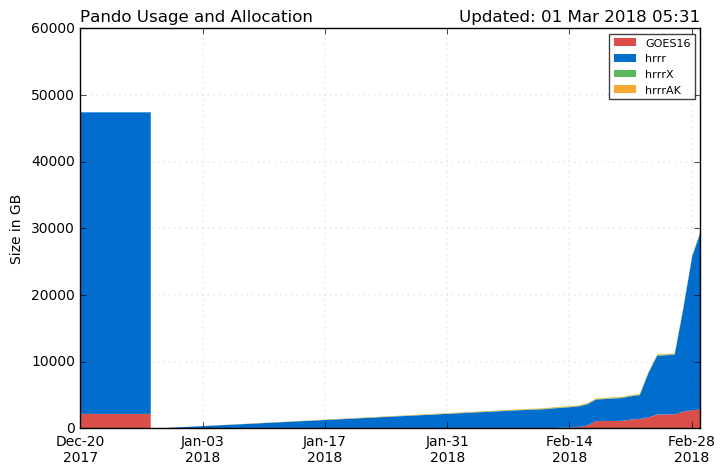
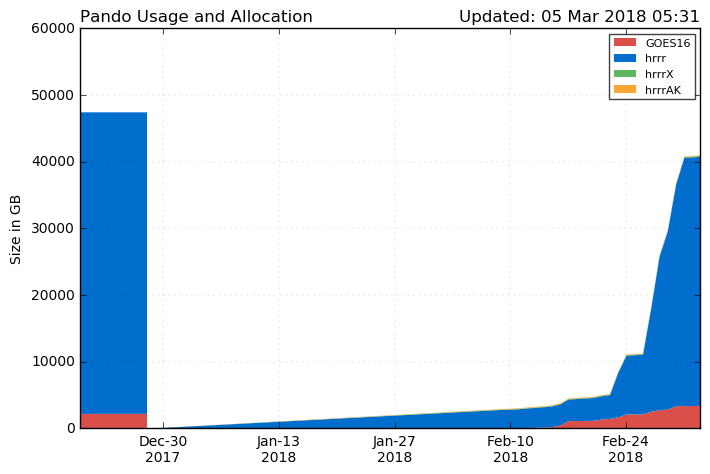
updates

diff --git a/hrrr_fires.html b/hrrr_fires.html
@@ -49,18 +49,44 @@ This page is created dynamically in the scirpt /oper/HRRR_fires/manager.py
 <tr><th>Name</th> <th>State</th> <th>Size (acres)</th> <th>Start Date</th></tr>
 <tr><td>
         <div class="btn-group" role="group" aria-label="..." style="padding-bottom:3px">
-        <a href="http://home.chpc.utah.edu/~u0553130/oper/HRRR_fires/KNOB_HILL/photo_viewer_fire.php" type="button" class="btn btn-warning" style="width:175px"><b><i class="fab fa-gripfire"></i> KNOB HILL</b></a>  <div class="btn-group" role="group">
+        <a href="http://home.chpc.utah.edu/~u0553130/oper/HRRR_fires/ANDERSON_RANCH/photo_viewer_fire.php" type="button" class="btn btn-warning" style="width:175px"><b><i class="fab fa-gripfire"></i> ANDERSON RANCH</b></a>  <div class="btn-group" role="group">
         <button type="button" class="btn btn-warning dropdown-toggle" data-toggle="dropdown" aria-haspopup="true" aria-expanded="false">
         <i class="far fa-clock"></i>
         <span class="caret"></span>
         </button>
         <ul class="dropdown-menu">
         <li>Other Data/Figures:</li>
-        <li><a href="http://home.chpc.utah.edu/~u0553130/PhD/HRRR_fires/KNOB_HILL">More Plots</a></li>
-        <li><a href="http://home.chpc.utah.edu/~u0553130/Brian_Blaylock/cgi-bin/hrrr_fires_alert.cgi?fire=KNOB HILL">Past Wind Events</a></li>
+        <li><a href="http://home.chpc.utah.edu/~u0553130/PhD/HRRR_fires/ANDERSON_RANCH">More Plots</a></li>
+        <li><a href="http://home.chpc.utah.edu/~u0553130/Brian_Blaylock/cgi-bin/hrrr_fires_alert.cgi?fire=ANDERSON RANCH">Past Wind Events</a></li>
         </ul>
         </div>
-        </div></td><td>Not Reported</td> <td>2,896</td><td>Not Reported</td></tr><tr><td>
+        </div></td><td>Not Reported</td> <td>1,000</td><td>Not Reported</td></tr><tr><td>
+        <div class="btn-group" role="group" aria-label="..." style="padding-bottom:3px">
+        <a href="http://home.chpc.utah.edu/~u0553130/oper/HRRR_fires/APACHE_COMPLEX/photo_viewer_fire.php" type="button" class="btn btn-warning" style="width:175px"><b><i class="fab fa-gripfire"></i> APACHE COMPLEX</b></a>  <div class="btn-group" role="group">
+        <button type="button" class="btn btn-warning dropdown-toggle" data-toggle="dropdown" aria-haspopup="true" aria-expanded="false">
+        <i class="far fa-clock"></i>
+        <span class="caret"></span>
+        </button>
+        <ul class="dropdown-menu">
+        <li>Other Data/Figures:</li>
+        <li><a href="http://home.chpc.utah.edu/~u0553130/PhD/HRRR_fires/APACHE_COMPLEX">More Plots</a></li>
+        <li><a href="http://home.chpc.utah.edu/~u0553130/Brian_Blaylock/cgi-bin/hrrr_fires_alert.cgi?fire=APACHE COMPLEX">Past Wind Events</a></li>
+        </ul>
+        </div>
+        </div></td><td>Colorado</td> <td>2,611</td><td>24-Feb-18</td></tr><tr><td>
+        <div class="btn-group" role="group" aria-label="..." style="padding-bottom:3px">
+        <a href="http://home.chpc.utah.edu/~u0553130/oper/HRRR_fires/NEWELL/photo_viewer_fire.php" type="button" class="btn btn-warning" style="width:175px"><b><i class="fab fa-gripfire"></i> NEWELL</b></a>  <div class="btn-group" role="group">
+        <button type="button" class="btn btn-warning dropdown-toggle" data-toggle="dropdown" aria-haspopup="true" aria-expanded="false">
+        <i class="far fa-clock"></i>
+        <span class="caret"></span>
+        </button>
+        <ul class="dropdown-menu">
+        <li>Other Data/Figures:</li>
+        <li><a href="http://home.chpc.utah.edu/~u0553130/PhD/HRRR_fires/NEWELL">More Plots</a></li>
+        <li><a href="http://home.chpc.utah.edu/~u0553130/Brian_Blaylock/cgi-bin/hrrr_fires_alert.cgi?fire=NEWELL">Past Wind Events</a></li>
+        </ul>
+        </div>
+        </div></td><td>Not Reported</td> <td>4,022</td><td>Not Reported</td></tr><tr><td>
         <div class="btn-group" role="group" aria-label="..." style="padding-bottom:3px">
         <a href="http://home.chpc.utah.edu/~u0553130/oper/HRRR_fires/PLEASANT/photo_viewer_fire.php" type="button" class="btn btn-warning" style="width:175px"><b><i class="fab fa-gripfire"></i> PLEASANT</b></a>  <div class="btn-group" role="group">
         <button type="button" class="btn btn-warning dropdown-toggle" data-toggle="dropdown" aria-haspopup="true" aria-expanded="false">
@@ -73,33 +99,7 @@ This page is created dynamically in the scirpt /oper/HRRR_fires/manager.py
         <li><a href="http://home.chpc.utah.edu/~u0553130/Brian_Blaylock/cgi-bin/hrrr_fires_alert.cgi?fire=PLEASANT">Past Wind Events</a></li>
         </ul>
         </div>
-        </div></td><td>Not Reported</td> <td>2,070</td><td>Not Reported</td></tr><tr><td>
-        <div class="btn-group" role="group" aria-label="..." style="padding-bottom:3px">
-        <a href="http://home.chpc.utah.edu/~u0553130/oper/HRRR_fires/RED_HORSE/photo_viewer_fire.php" type="button" class="btn btn-warning" style="width:175px"><b><i class="fab fa-gripfire"></i> RED HORSE</b></a>  <div class="btn-group" role="group">
-        <button type="button" class="btn btn-warning dropdown-toggle" data-toggle="dropdown" aria-haspopup="true" aria-expanded="false">
-        <i class="far fa-clock"></i>
-        <span class="caret"></span>
-        </button>
-        <ul class="dropdown-menu">
-        <li>Other Data/Figures:</li>
-        <li><a href="http://home.chpc.utah.edu/~u0553130/PhD/HRRR_fires/RED_HORSE">More Plots</a></li>
-        <li><a href="http://home.chpc.utah.edu/~u0553130/Brian_Blaylock/cgi-bin/hrrr_fires_alert.cgi?fire=RED HORSE">Past Wind Events</a></li>
-        </ul>
-        </div>
-        </div></td><td>Not Reported</td> <td>2,549</td><td>Not Reported</td></tr><tr><td>
-        <div class="btn-group" role="group" aria-label="..." style="padding-bottom:3px">
-        <a href="http://home.chpc.utah.edu/~u0553130/oper/HRRR_fires/ROZELL/photo_viewer_fire.php" type="button" class="btn btn-warning" style="width:175px"><b><i class="fab fa-gripfire"></i> ROZELL</b></a>  <div class="btn-group" role="group">
-        <button type="button" class="btn btn-warning dropdown-toggle" data-toggle="dropdown" aria-haspopup="true" aria-expanded="false">
-        <i class="far fa-clock"></i>
-        <span class="caret"></span>
-        </button>
-        <ul class="dropdown-menu">
-        <li>Other Data/Figures:</li>
-        <li><a href="http://home.chpc.utah.edu/~u0553130/PhD/HRRR_fires/ROZELL">More Plots</a></li>
-        <li><a href="http://home.chpc.utah.edu/~u0553130/Brian_Blaylock/cgi-bin/hrrr_fires_alert.cgi?fire=ROZELL">Past Wind Events</a></li>
-        </ul>
-        </div>
-        </div></td><td>Not Reported</td> <td>1,926</td><td>Not Reported</td></tr>
+        </div></td><td>Not Reported</td> <td>2,070</td><td>Not Reported</td></tr>
 </table>
 </div>
   <div class="col-md-6">
@@ -117,7 +117,7 @@ This page is created dynamically in the scirpt /oper/HRRR_fires/manager.py
     <p><a class='btn btn-default' style='width:100%' href="https://rmgsc.cr.usgs.gov/outgoing/GeoMAC/ActiveFirePerimeters.kml" target="_blank">Active Fire KMZ USGS <i class="fa fa-external-link-alt"></i></a>
     <p><a class='btn btn-default' style='width:100%' href="https://earthdata.nasa.gov/earth-observation-data/near-real-time/firms/active-fire-data" target="_blank">Active Fire KMZ EarthData <i class="fa fa-external-link-alt"></i></a>
     <p><a class='btn btn-success' style='width:100%' href="https://rmgsc.cr.usgs.gov/outgoing/GeoMAC/current_year_fire_data/current_year_all_states/" target="_blank">Active Fire Perimeter ShapeFile <i class="fa fa-external-link-alt"></i></a>
-    <p><a class='btn btn-success' style='width:100%' href="https://fsapps.nwcg.gov/afm/data/lg_fire/lg_fire_info_2018-03-01.txt" target="_blank">Active Fire Text <i class="fa fa-external-link-alt"></i></a>
+    <p><a class='btn btn-success' style='width:100%' href="https://fsapps.nwcg.gov/afm/data/lg_fire/lg_fire_info_2018-03-05.txt" target="_blank">Active Fire Text <i class="fa fa-external-link-alt"></i></a>
     </div>
 </center>
 </div>

diff --git a/Pando_archive/index.html b/Pando_archive/index.html
@@ -37,12 +37,12 @@
         </div>
   <br>
   <script src='./js/pando_status.js'></script>
-    <center><font size=12> 29.8 TB out of 60 TB</font>
+    <center><font size=12> 41.0 TB out of 60 TB</font>
     <div class="progress" style="max-width:700px;height:35px">
-            <div class="progress-bar progress-bar-danger" role="progressbar" style="width:5%">
+            <div class="progress-bar progress-bar-danger" role="progressbar" style="width:6%">
               <font size=4></font>
             </div>
-            <div class="progress-bar progress-bar-primary" role="progressbar" style="width:45%">
+            <div class="progress-bar progress-bar-primary" role="progressbar" style="width:62%">
               <font size=4></font>
             </div>
             <div class="progress-bar progress-bar-success" role="progressbar" style="width:0%">
@@ -64,9 +64,9 @@
         <th style='text-align:center'>Estimated Full Date</th>
       </tr>
       <tr>
-        <td>3802.84 GB</td>
-        <td>15</td>
-        <td>16 March 2018</td>
+        <td>82.92 GB</td>
+        <td>723</td>
+        <td>26 February 2020</td>
       </tr>
     </table>
     <table class="table table-bordered" style='text-align:center;max-width:700px'>
@@ -80,14 +80,14 @@
       <tr>
         <th>sfc</th>
         <td>--</td>
-        <td>0.00</td>
-        <td>0.00</td>
-        <td>0.00</td>
+        <td>23.09</td>
+        <td>1.21</td>
+        <td>0.26</td>
       </tr>
       <tr>
         <th>prs</th>
         <td>--</td>
-        <td>0.00</td>
+        <td>3.69</td>
         <td>0.00</td>
         <td>0.00</td>
       </tr>
@@ -100,10 +100,10 @@
       </tr>
       <tr>
         <th>Total</th>
-        <th>86.2 GB</th>
-        <th>0.00 GB</th>
-        <th>0.00 GB</th>
-        <th>0.00 GB</th>
+        <th>15.2 GB</th>
+        <th>26.79 GB</th>
+        <th>1.21 GB</th>
+        <th>0.26 GB</th>
       </tr>
     </table>
 

diff --git a/Pando_archive/daily_usage.py b/Pando_archive/daily_usage.py
@@ -47,15 +47,17 @@ allocation = 60 * 1e3
 DATE = date.today()
 #------------------------------------------------------------------------------
 
+rclone = '/uufs/chpc.utah.edu/common/home/horel-group7/Pando_Scripts/rclone-v1.39-linux-386/rclone'
+
 ## --- Get size of each bucket (in GB) ----------------------------------------
 sizes = {}
 buckets = ['GOES16', 'hrrr', 'hrrrX', 'hrrrak']
 names = ['GOES16', 'hrrr', 'hrrrX', 'hrrrAK']
 for b in buckets:
-    outSize = subprocess.check_output('rclone size horelS3:%s/' % b, shell=True)
+    outSize = subprocess.check_output(rclone+' size horelS3:%s/' % b, shell=True)
     print outSize
     sSIZE = outSize.index('(')+1
-    eSIZE = outSize.index(' bytes)')
+    eSIZE = outSize.index(' Bytes)')
     Bytes = outSize[sSIZE:eSIZE]
     GB = int(Bytes) * 1e-9
     print b, GB
@@ -112,9 +114,9 @@ day_sizes = {}
 for m in models:
   day_sizes[m] = {}
   for f in fields:
-      outSize = subprocess.check_output('rclone size horelS3:%s/%s/%s/' % (m, f, DATE.strftime('%Y%m%d')), shell=True)
+      outSize = subprocess.check_output(rclone+' size horelS3:%s/%s/%s/' % (m, f, DATE.strftime('%Y%m%d')), shell=True)
       sSIZE = outSize.index('(')+1
-      eSIZE = outSize.index(' bytes)')
+      eSIZE = outSize.index(' Bytes)')
       size = outSize[sSIZE:eSIZE]
       day_sizes[m][f] = int(size) * 1e-9
 
